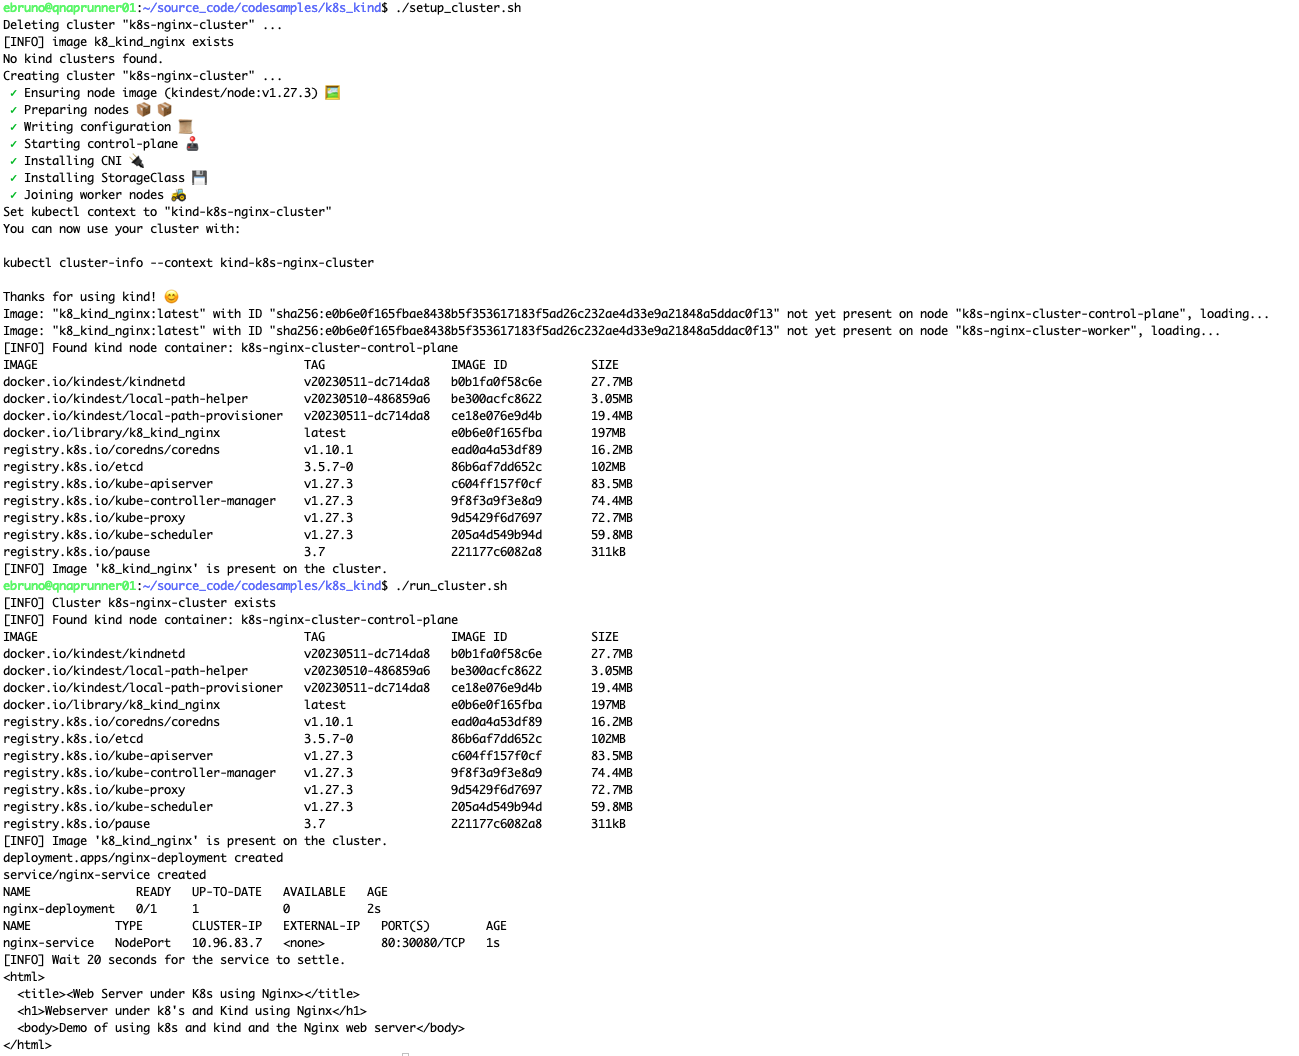
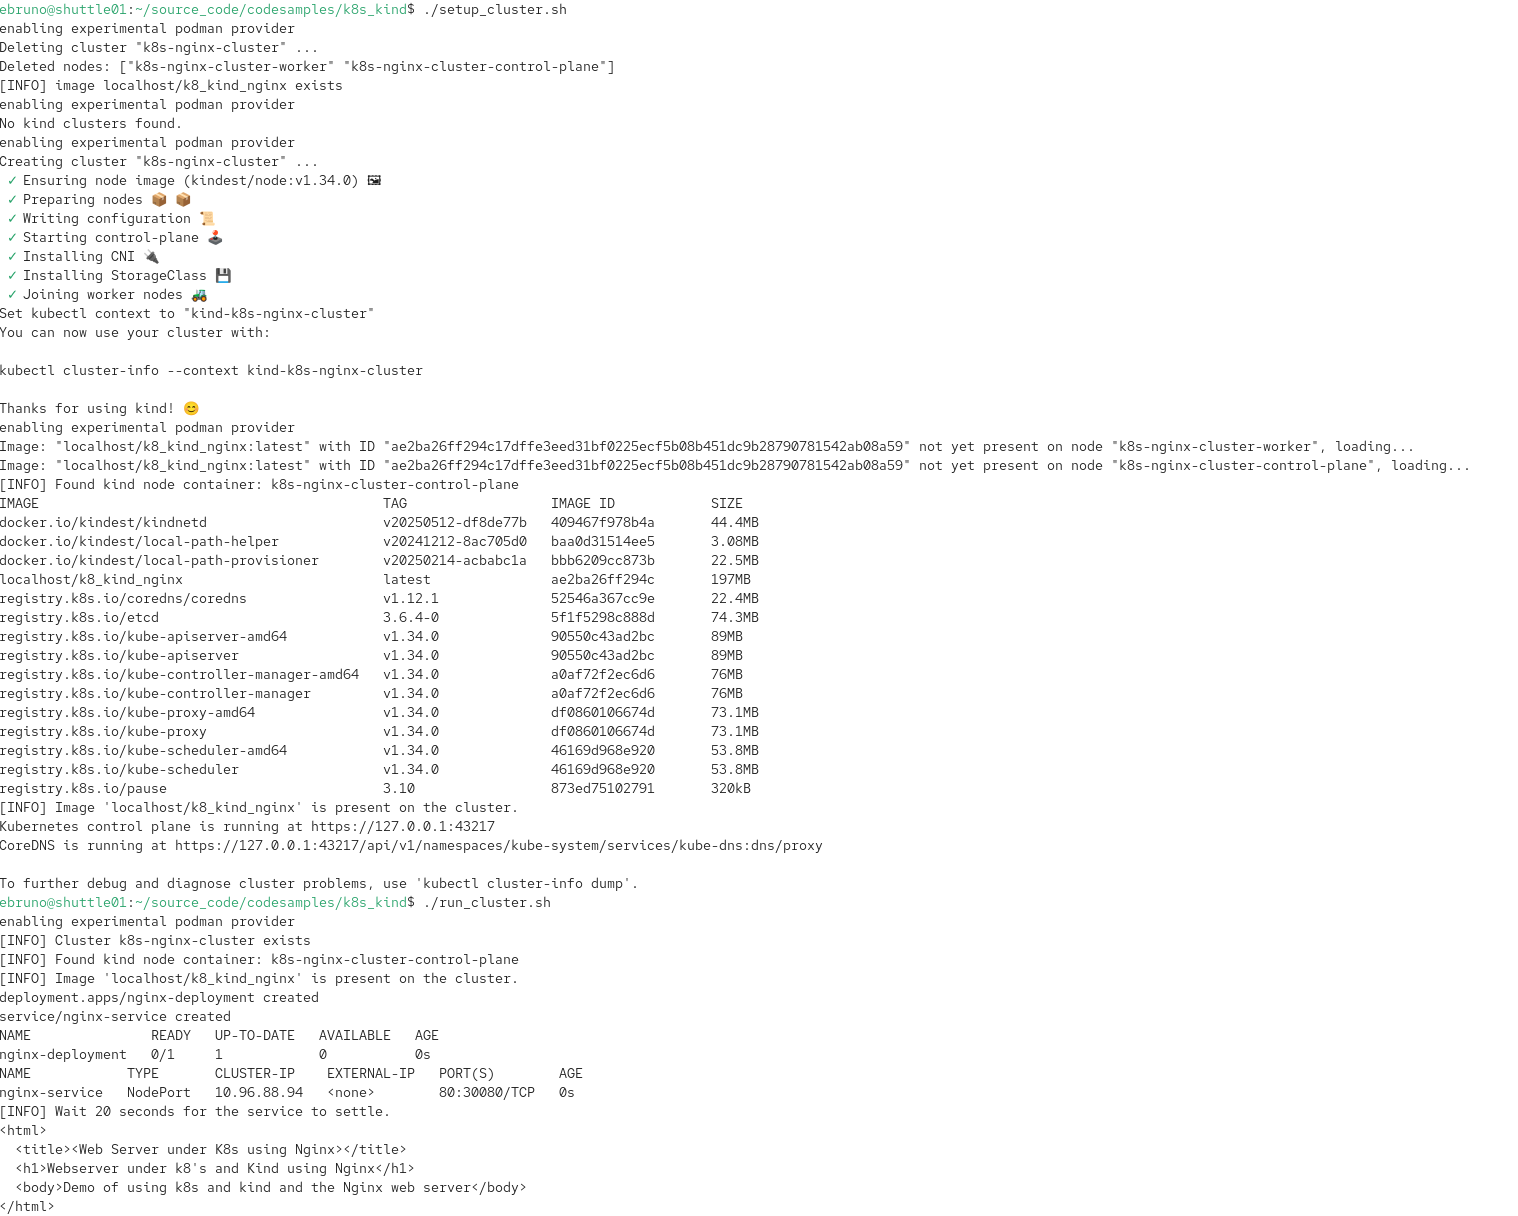
Podman support

diff --git a/k8s_kind/README.md b/k8s_kind/README.md
@@ -5,21 +5,18 @@ Demostration of a nginx server using [kind](https://kind.sigs.k8s.io) and k8.
 This has been tested on the following environments
 
  * Debian 12 requires kind, kubectl and docker to be installed on the system.
-
-
+ * RHEL 10 requires kind, kubectl and podman to be installed on the system.
 
 ## Running the demo ##
 
-     ./setup_cluster.sh
+	 ./setup_cluster.sh
 	 ./run_cluster.sh
-	 
+
 	 # When you are done.
-	 
+
 	 ./cleanup.sh
 
 
 Sample Run
 
 <img src="images/sample_run.png" alt="alt text" title="Sample Run">
- 
- 
